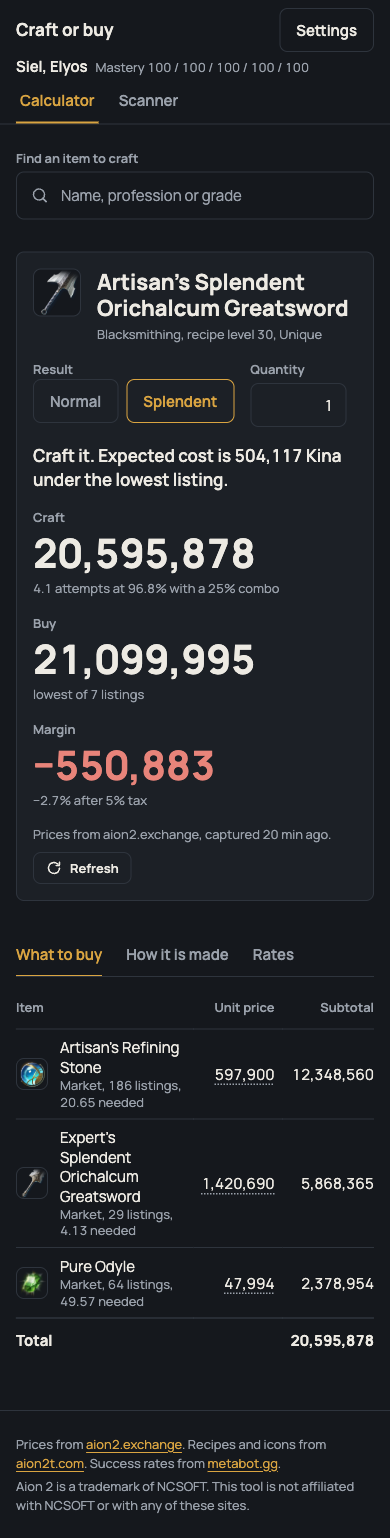
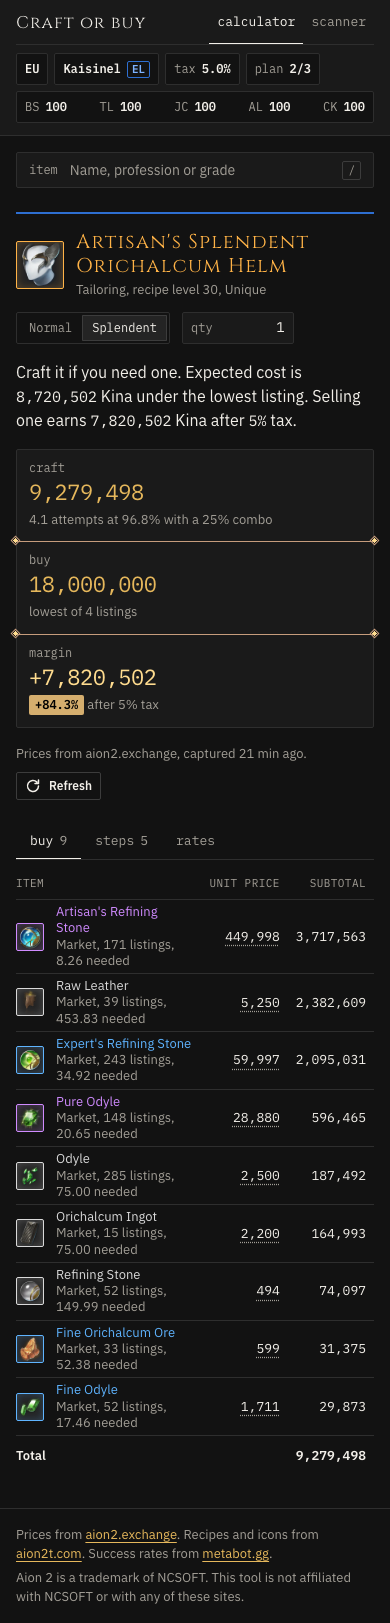
Document the status line, the world directory and the heat, and retake the screenshots
ARCHITECTURE.md gains the new modules and a section on the open setting,
Surface, the world list, pairing from game_server_key, recent worlds, the
side colour and the margin heat. README describes the chips instead of
Settings and the world select. The screenshots show the third pass at
1280 and 390 px; the dark, light and settings-dialog ones go.

diff --git a/docs/ARCHITECTURE.md b/docs/ARCHITECTURE.md
@@ -38,13 +38,76 @@ plan.blocked         // recipes in the tree above the player's mastery
 | `src/domain/planCraft.ts` | the expected-value engine, pure, memoised cheapest acquisition per item |
 | `src/domain/priceBook.ts` | merges manual overrides, market quotes and NPC prices into `PriceBook` |
 | `src/data/catalog.ts` | `catalogFor(race)`: the bundled JSON as a `Catalog`, built once per race |
-| `src/market/exchangeClient.ts` | fetch wrappers over `/ex/api/*` (proxied), batch by 100 keys, localStorage cache with `capturedAt` |
-| `src/state/` | React state: selected world, mastery, overrides, target, persisted in localStorage |
-| `src/components/` | UI |
+| `src/market/exchangeClient.ts` | fetch wrappers over `/ex/api/*` (proxied), batch by 100 keys, localStorage cache with `capturedAt`; `fetchWorlds()` parses `game_server_key` and returns a `WorldDirectory` |
+| `src/market/worlds.ts` | `World`, `Listed { world, match }`, `WorldDirectory`, `SIDE`, `PAIRING`, `directoryOf`, `resolveWorld`; pure |
+| `src/state/setup.ts` | `Setup` (world, recent worlds, mastery, tax, plan flags), `parseSetup` at the storage boundary, `setWorld`, `PROFESSIONS`, `PLAN_FLAGS` |
+| `src/state/chips.ts` | `statusChips(setup, current)`: every string the status line shows |
+| `src/state/openSetting.ts` | the `Setting` union and `useOpenSetting()`, the one owner of which setting is open and of focus return |
+| `src/state/picker.ts` | `pickerView`, `moveActive`, `initialActive`, `groupNote`, `currentNote` for the world list; pure |
+| `src/state/heat.ts` | `heatOf(marginPct)`: the margin heat colour and its ink; pure |
+| `src/state/` (rest) | React state: worlds, prices, overrides, target, scan rows, persisted in localStorage |
+| `src/components/TopBar.tsx` | wordmark, views, the context chips and `FreshnessPill` |
+| `src/components/SettingHost.tsx` | renders zero or one `Surface` for the open `Setting`: `WorldPicker`, `MasteryForm`, `TaxForm` or `PlanSettings` |
+| `src/components/Surface.tsx` | the one native `<dialog>` for every in-place setting |
+| `src/components/` (rest) | calculator, scanner, tables, cells |
 | `vite.config.ts` | `server.proxy` and `preview.proxy`: `/ex` → `https://aion2.exchange`, `/a2t` → `https://aion2t.com` (icons) |
 
 `src/domain/` imports its own files with `.ts` extensions and only `import type` for types, so
 Node 24 runs it without a build step (`verify-model.mjs` does).
+
+## The status line and its settings
+
+Every value in the status line is a chip that opens its own setting in place. `App` renders
+`TopBar` with `statusChips(setup, current)` and `SettingHost` right after it, so tabbing out of
+a popover lands in the page.
+
+```ts
+const surface = useOpenSetting()            // { opened: { setting, anchor } | null, open, close }
+surface.open({ kind: 'world', from: 'region' }, chip)   // the same chip again closes it
+surface.close()                             // focus returns to the chip after the surface unmounts
+surface.close(false)                        // the user clicked or tabbed elsewhere; focus stays there
+```
+
+- `Setting` is `{ kind: 'world', from: 'region' | 'world' } | { kind: 'mastery' } | { kind: 'tax' } | { kind: 'plan' }`.
+  One value means two settings can never be open together. `SettingHost` switches over `kind`
+  with a `never` default, so a new kind fails `tsc` there.
+- `Surface` takes `placement: 'popover' | 'drawer'`. A popover on a screen 640 px or wider opens
+  with `show()`, sits under its chip, and closes on Escape, on a pointerdown outside it and its
+  chip, and when focus leaves it. Under 640 px the same popover opens with `showModal()` as a
+  bottom sheet, and it closes if the viewport crosses 640 px while open. The drawer is modal at
+  every width, 400 px from the right and full width on phones.
+- The world list is one component for the region and world chips. The region chip presets the
+  region filter, and the first typed letter clears it, since the search spans all 106 worlds.
+  `pickerView(directory, query, recent)` filters by text, region and side and
+  returns the recent rows, the region groups and the flat keyboard order. The search field keeps
+  focus and points at the active row with `aria-activedescendant`.
+
+### Worlds and their enemy worlds
+
+aion2.exchange sends each world with `game_server_key` = side × 1000 + region × 100 + n.
+`directoryOf` pairs a key with the same key on the other side, and accepts the partner only when
+it is the other race in the same region; otherwise `match` is `null`. The rule reproduces all 53
+pairs in NC's notice of 2026-10-04, and `worlds.test.ts` holds that notice as a fixture
+(`docs/explorations/worlds.json`). NC rotates pairs, so when the fixture test fails, the fix is
+an override table inside `PAIRING` and a new `since`. The key never leaves `src/market`.
+
+`Setup.world` keeps the six-field `World` it always had, and `match` is never stored, so a stale
+pairing cannot load from storage. `resolveWorld(directory, saved)` returns the directory's copy
+once the list loads and wraps the saved world with `match: null` before that. `Setup.recent`
+holds up to three world ids, newest first, and only `setWorld(setup, world)` writes it, together
+with `world`. Forms change the rest through `SetupPatch`, which excludes both.
+
+### Side colour and margin heat
+
+`.app` carries `data-side={race}`, which sets `--side` and `--side-l` to the Elyos blue or the
+Asmodian violet. A picker row and a matched-world name carry their own `data-side`, so no
+component picks a side colour in code.
+
+`heatOf(marginPct)` blends `#B35317` to `#FFDC8F` with alpha 0.14 to 1 over `--page` and returns
+the opaque background with a black or white ink, whichever contrasts more. The scale is absolute:
+`HEAT_CAP = 1`, so +100% and above saturate. Losses and margins shown as 0.0% get no heat.
+`heat.test.ts` checks 4.5:1 for every shown tenth of a percent and fails when `--page` in
+`styles.css` drifts from `HEAT_BASE`. `HeatChip` renders it in the scanner and the answer panel.
 
 ## Types
 
@@ -217,3 +280,5 @@ export interface PlanResult {
 | Rate data | metabot.gg's client curves per recipe + family fallback, gamewith.ai tables as a check | gamewith.ai tables per product id | metabot covers every craft recipe of both races at full precision and is keyed by recipe id; gamewith has pages for 79 Elyos products and rounds to 0.1% |
 | Recipe data | generated JSON in repo | fetch at runtime | offline use, and aion2t.com could gate it any day |
 | Engine | expected value per step with cheapest acquisition memo | Monte Carlo | same mean, deterministic, instant in the UI |
+| In-place settings | one native `<dialog>`, non-modal on wide screens | Base UI Popover, Drawer and Combobox | Base UI needs a popover tree and a drawer tree per setting and a width switch in JS for phones; the native dialog makes the sheet a stylesheet rule and adds no dependency |
+| Enemy world | derived from `game_server_key`, pinned by a fixture of NC's notice | a hand-entered table of 53 pairs | the table equals the rule today; it stays the planned override when NC rotates pairs |

diff --git a/README.md b/README.md
@@ -2,11 +2,13 @@
 
 This fork turns the Grachy/aion2-craft starter into a calculator that runs on your own computer. For a craftable item, it computes the expected Kina to craft it at your mastery and compares that with the item's price on the Market of one world. Recipes and success rates ship with the repository. Market prices come live from [aion2.exchange](https://aion2.exchange).
 
-Pick an item and the page answers in one sentence whether to craft it or buy it, with three figures under it: the expected crafting cost, the lowest listing, and the margin after the Market tax. Three tabs hold the detail: what to buy, how each step is made, and the success rates, next to aion2.exchange's own estimate for the items it models. Click any unit price to enter your own, per world. The scanner ranks every recipe on your world by margin. Settings holds the world, your mastery per profession (100 until you change it, and shown in the top bar), the tax, and the prices you entered.
+Pick an item and the page answers in one sentence whether to craft it or buy it, with three figures under it: the expected crafting cost, the lowest listing, and the margin after the Market tax. Three tabs hold the detail: what to buy, how each step is made, and the success rates, next to aion2.exchange's own estimate for the items it models. Click any unit price to enter your own, per world. The scanner ranks every recipe on your world by margin.
 
-![The calculator in the dark theme](docs/screenshots/calculator-desktop-dark.png)
+The status line at the top shows what the plan assumes: the region, the world and its side, the Market tax, your mastery per profession (100 until you change it), and how many plan options are on. Each value opens its own setting in place. The region and world open one world list, which you can search across all 106 worlds, with each world's current enemy world and your three most recent worlds on top. The plan value opens a drawer with the plan options and the prices you entered.
 
-More screenshots in `docs/screenshots/`: the scanner, a phone at 390 px, the settings dialog, and a recipe with missing prices.
+![The calculator with the status line, the answer and what to buy](docs/screenshots/calculator-desktop.png)
+
+More screenshots in `docs/screenshots/`: the scanner, the world list, the mastery popover, a phone at 390 px with the world list as a bottom sheet, and a recipe with missing prices.
 
 ## Run it
 
@@ -17,7 +19,7 @@ npm install
 npm run dev
 ```
 
-Open the URL that `npm run dev` prints, usually http://localhost:5173. The page starts on aion2.exchange's default world. To pick yours, open **Settings** and choose it under **World**.
+Open the URL that `npm run dev` prints, usually http://localhost:5173. The page starts on aion2.exchange's default world. To pick yours, click the world in the status line and choose it from the list.
 
 `npm run build` type-checks and builds into `dist/`. `npm run preview` serves that build. Both `dev` and `preview` proxy `/ex` to aion2.exchange and `/a2t` to aion2t.com, because aion2.exchange sends no CORS headers. A static file server without that proxy cannot load prices.
 
@@ -42,7 +44,7 @@ npm test
 node scripts/verify-model.mjs
 ```
 
-`npm test` runs the vitest suites for the planner in `src/domain/` and for the verdict, search and scanner helpers in `src/state/`.
+`npm test` runs the vitest suites for the planner in `src/domain/`, the world pairing in `src/market/`, and the verdict, search, scanner, heat, world list, status line and setup helpers in `src/state/`. `npm run check` type-checks without building.
 
 `node scripts/validate-recipes.mjs` cross-checks every cached recipe against metabot.gg, aion2.exchange's game-file model and gamewith.ai, and fails on the first disagreement. The result table is in `docs/RESEARCH.md`.
 
